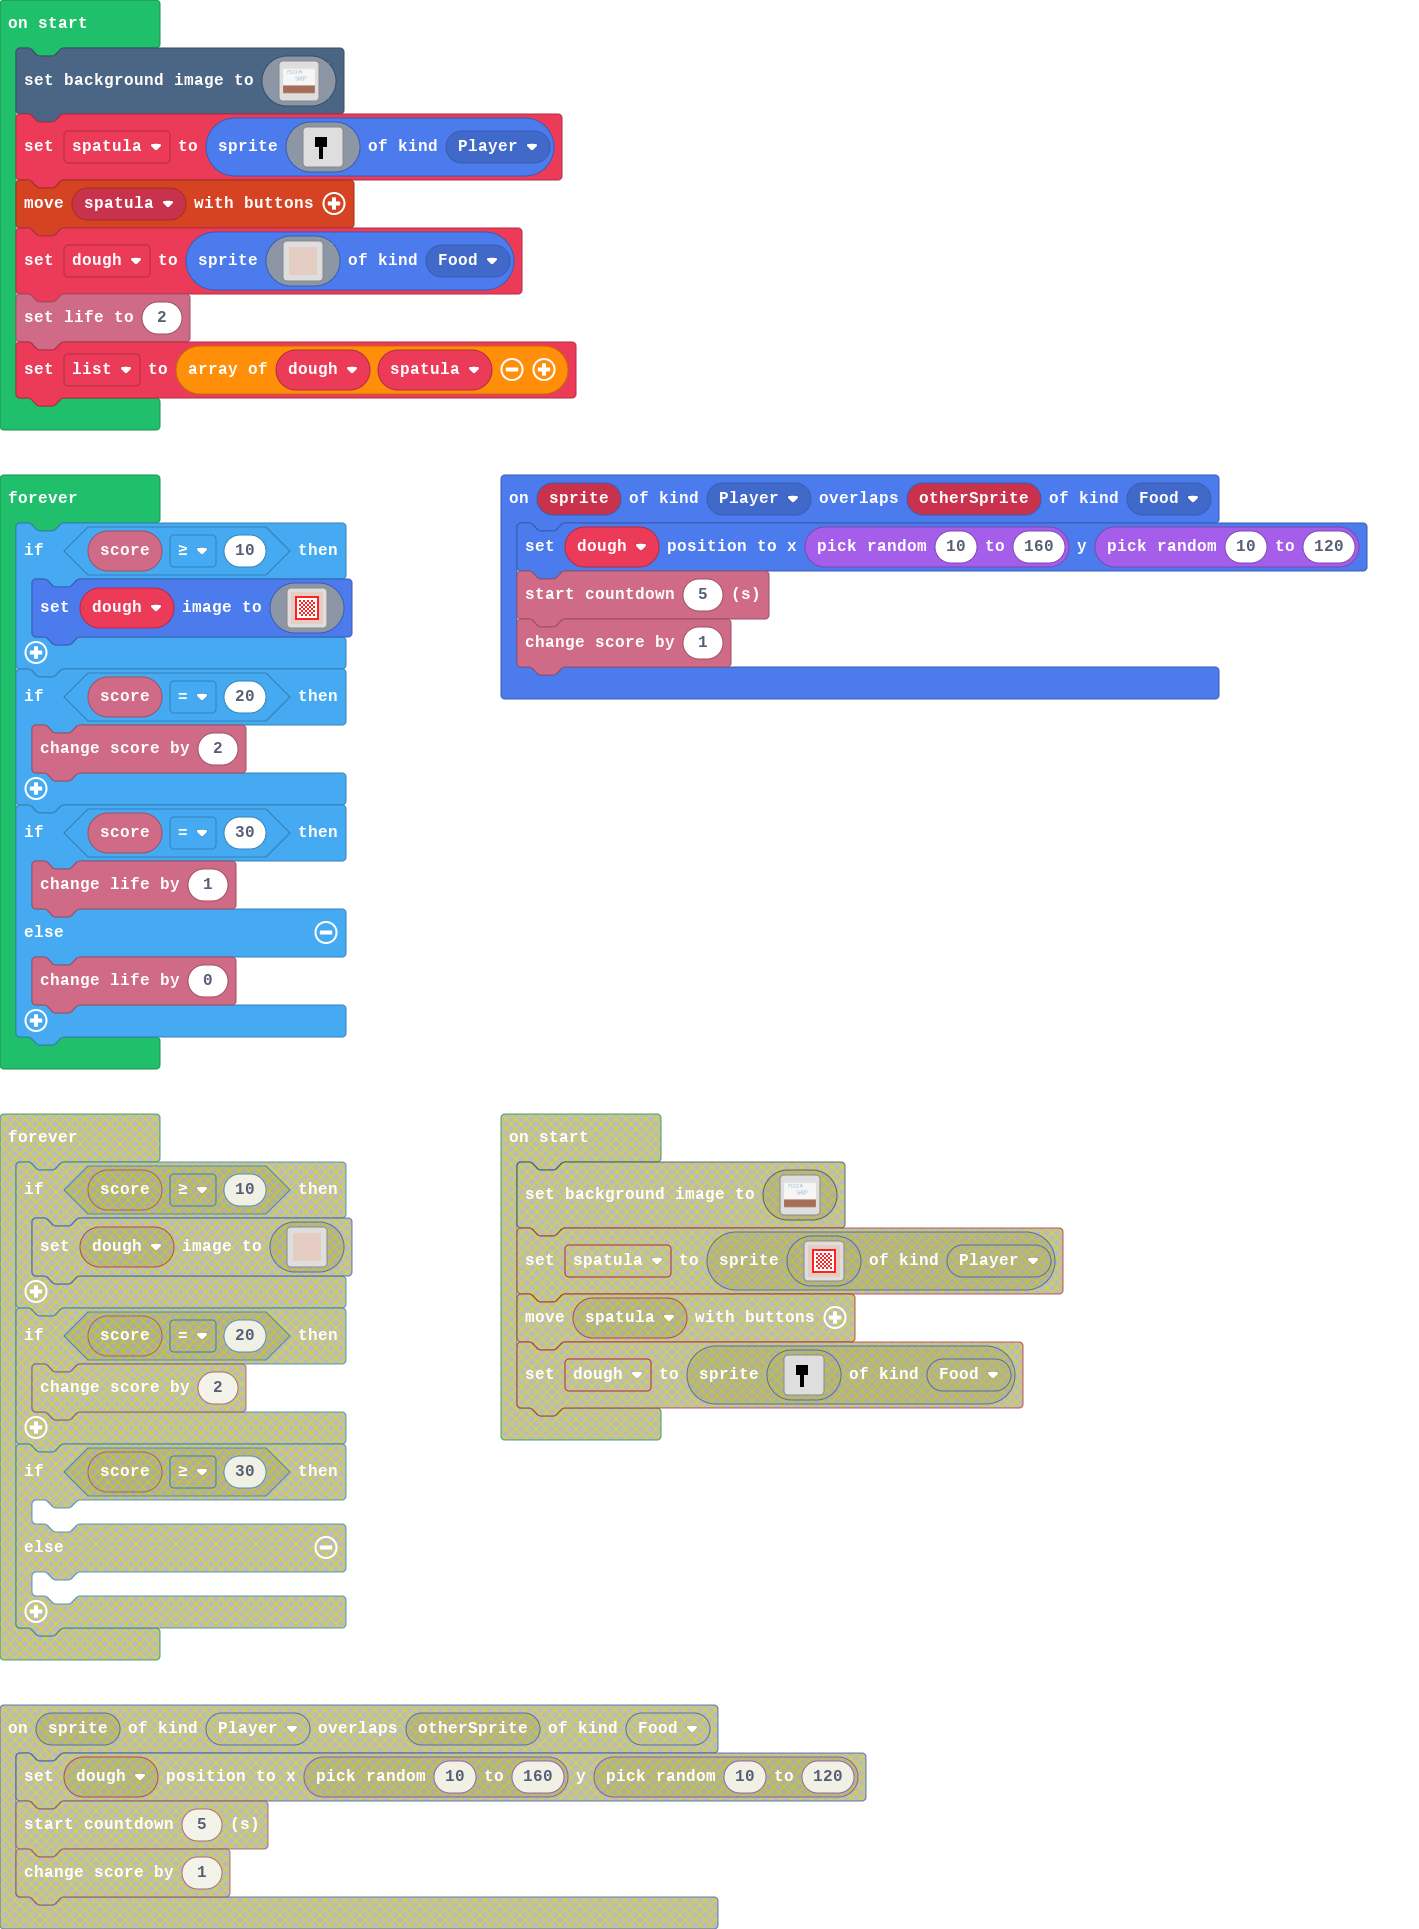
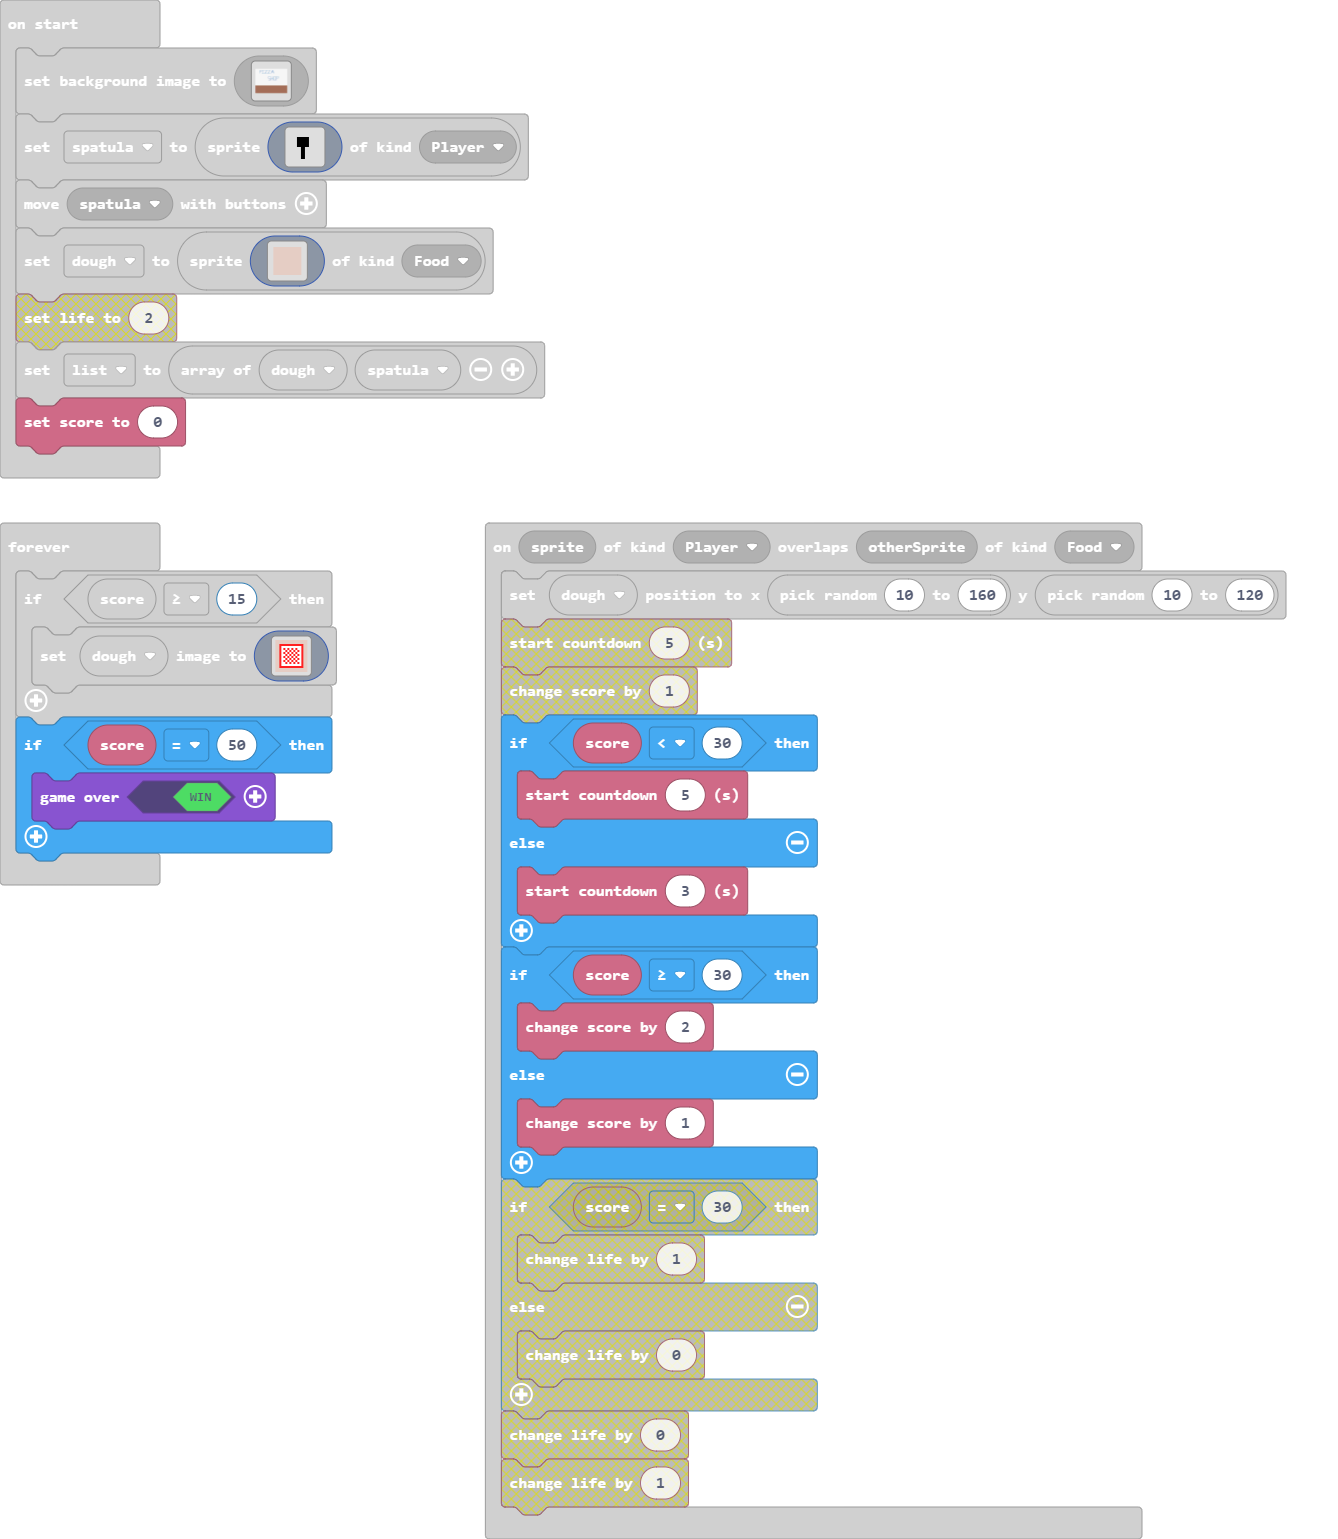
Update pxt.json, main.blocks, main.ts, main.py, images.g.jres, images.g.ts

diff --git a/images.g.ts b/images.g.ts
@@ -126,60 +126,6 @@ eeeeeeeeeeeeeeeeeeeeeeeeeeeeeeeeeeeeeeeeeeeeeeeeeeeeeeeeeeeeeeeeeeeeeeeeeeeeeeee
 eeeeeeeeeeeeeeeeeeeeeeeeeeeeeeeeeeeeeeeeeeeeeeeeeeeeeeeeeeeeeeeeeeeeeeeeeeeeeeeeeeeeeeeeeeeeeeeeeeeeeeeeeeeeeeeeeeeeeeeeeeeeeeeeeeeeeeeeeeeeeeeeeeeeeeeeeeeeeeee
 eeeeeeeeeeeeeeeeeeeeeeeeeeeeeeeeeeeeeeeeeeeeeeeeeeeeeeeeeeeeeeeeeeeeeeeeeeeeeeeeeeeeeeeeeeeeeeeeeeeeeeeeeeeeeeeeeeeeeeeeeeeeeeeeeeeeeeeeeeeeeeeeeeeeeeeeeeeeeeee
 `;
-            case "image5":return img`
-d d d d d d d d d d d d d d d d 
-d d d d d d d d d d d d d d d d 
-d d 2 2 2 2 2 2 2 2 2 2 2 2 d d 
-d d 2 1 1 1 1 1 1 1 1 1 1 2 d d 
-d d 2 1 2 1 2 1 2 1 2 1 1 2 d d 
-d d 2 1 1 2 1 2 1 2 1 2 1 2 d d 
-d d 2 1 2 1 2 1 2 1 2 1 1 2 d d 
-d d 2 1 1 2 1 2 1 2 1 2 1 2 d d 
-d d 2 1 2 1 2 1 2 1 2 1 1 2 d d 
-d d 2 1 1 2 1 2 1 2 1 2 1 2 d d 
-d d 2 1 2 1 2 1 2 1 2 1 1 2 d d 
-d d 2 1 1 2 1 2 1 2 1 2 1 2 d d 
-d d 2 1 1 1 1 1 1 1 1 1 1 2 d d 
-d d 2 2 2 2 2 2 2 2 2 2 2 2 d d 
-d d d d d d d d d d d d d d d d 
-d d d d d d d d d d d d d d d d 
-`;
-            case "image6":return img`
-. . . . . . . . . . . . . . . . 
-. . . . . . . . . . . . . . . . 
-. . . . . . . . . . . . . . . . 
-. . . . f f f f f f . . . . . . 
-. . . . f f f f f f . . . . . . 
-. . . . f f f f f f . . . . . . 
-. . . . f f f f f f . . . . . . 
-. . . . f f f f f f . . . . . . 
-. . . . . . f f . . . . . . . . 
-. . . . . . f f . . . . . . . . 
-. . . . . . f f . . . . . . . . 
-. . . . . . f f . . . . . . . . 
-. . . . . . f f . . . . . . . . 
-. . . . . . f f . . . . . . . . 
-. . . . . . . . . . . . . . . . 
-. . . . . . . . . . . . . . . . 
-`;
-            case "image7":return img`
-. . . . . . . . . . . . . . . . 
-. d d d d d d d d d d d d d d . 
-. d d d d d d d d d d d d d d . 
-. d d d d d d d d d d d d d d . 
-. d d d d d d d d d d d d d d . 
-. d d d d d d d d d d d d d d . 
-. d d d d d d d d d d d d d d . 
-. d d d d d d d d d d d d d d . 
-. d d d d d d d d d d d d d d . 
-. d d d d d d d d d d d d d d . 
-. d d d d d d d d d d d d d d . 
-. d d d d d d d d d d d d d d . 
-. d d d d d d d d d d d d d d . 
-. d d d d d d d d d d d d d d . 
-. d d d d d d d d d d d d d d . 
-. . . . . . . . . . . . . . . . 
-`;
             case "image2":return img`
 d d d d d d d d d d d d d d d d 
 d d d d d d d d d d d d d d d d 
@@ -271,6 +217,114 @@ d d d d d d d d d d d d d d d d
 . . . . . . . . . . . . . . . . 
 `;
             case "image10":return img`
+. . . . . . . . . . . . . . . . 
+. d d d d d d d d d d d d d d . 
+. d d d d d d d d d d d d d d . 
+. d d d d d d d d d d d d d d . 
+. d d d d d d d d d d d d d d . 
+. d d d d d d d d d d d d d d . 
+. d d d d d d d d d d d d d d . 
+. d d d d d d d d d d d d d d . 
+. d d d d d d d d d d d d d d . 
+. d d d d d d d d d d d d d d . 
+. d d d d d d d d d d d d d d . 
+. d d d d d d d d d d d d d d . 
+. d d d d d d d d d d d d d d . 
+. d d d d d d d d d d d d d d . 
+. d d d d d d d d d d d d d d . 
+. . . . . . . . . . . . . . . . 
+`;
+            case "image5":return img`
+d d d d d d d d d d d d d d d d 
+d d d d d d d d d d d d d d d d 
+d d 2 2 2 2 2 2 2 2 2 2 2 2 d d 
+d d 2 1 1 1 1 1 1 1 1 1 1 2 d d 
+d d 2 1 2 1 2 1 2 1 2 1 1 2 d d 
+d d 2 1 1 2 1 2 1 2 1 2 1 2 d d 
+d d 2 1 2 1 2 1 2 1 2 1 1 2 d d 
+d d 2 1 1 2 1 2 1 2 1 2 1 2 d d 
+d d 2 1 2 1 2 1 2 1 2 1 1 2 d d 
+d d 2 1 1 2 1 2 1 2 1 2 1 2 d d 
+d d 2 1 2 1 2 1 2 1 2 1 1 2 d d 
+d d 2 1 1 2 1 2 1 2 1 2 1 2 d d 
+d d 2 1 1 1 1 1 1 1 1 1 1 2 d d 
+d d 2 2 2 2 2 2 2 2 2 2 2 2 d d 
+d d d d d d d d d d d d d d d d 
+d d d d d d d d d d d d d d d d 
+`;
+            case "image6":return img`
+. . . . . . . . . . . . . . . . 
+. . . . . . . . . . . . . . . . 
+. . . . . . . . . . . . . . . . 
+. . . . f f f f f f . . . . . . 
+. . . . f f f f f f . . . . . . 
+. . . . f f f f f f . . . . . . 
+. . . . f f f f f f . . . . . . 
+. . . . f f f f f f . . . . . . 
+. . . . . . f f . . . . . . . . 
+. . . . . . f f . . . . . . . . 
+. . . . . . f f . . . . . . . . 
+. . . . . . f f . . . . . . . . 
+. . . . . . f f . . . . . . . . 
+. . . . . . f f . . . . . . . . 
+. . . . . . . . . . . . . . . . 
+. . . . . . . . . . . . . . . . 
+`;
+            case "image7":return img`
+. . . . . . . . . . . . . . . . 
+. d d d d d d d d d d d d d d . 
+. d d d d d d d d d d d d d d . 
+. d d d d d d d d d d d d d d . 
+. d d d d d d d d d d d d d d . 
+. d d d d d d d d d d d d d d . 
+. d d d d d d d d d d d d d d . 
+. d d d d d d d d d d d d d d . 
+. d d d d d d d d d d d d d d . 
+. d d d d d d d d d d d d d d . 
+. d d d d d d d d d d d d d d . 
+. d d d d d d d d d d d d d d . 
+. d d d d d d d d d d d d d d . 
+. d d d d d d d d d d d d d d . 
+. d d d d d d d d d d d d d d . 
+. . . . . . . . . . . . . . . . 
+`;
+            case "image11":return img`
+d d d d d d d d d d d d d d d d 
+d d d d d d d d d d d d d d d d 
+d d 2 2 2 2 2 2 2 2 2 2 2 2 d d 
+d d 2 1 1 1 1 1 1 1 1 1 1 2 d d 
+d d 2 1 2 1 2 1 2 1 2 1 1 2 d d 
+d d 2 1 1 2 1 2 1 2 1 2 1 2 d d 
+d d 2 1 2 1 2 1 2 1 2 1 1 2 d d 
+d d 2 1 1 2 1 2 1 2 1 2 1 2 d d 
+d d 2 1 2 1 2 1 2 1 2 1 1 2 d d 
+d d 2 1 1 2 1 2 1 2 1 2 1 2 d d 
+d d 2 1 2 1 2 1 2 1 2 1 1 2 d d 
+d d 2 1 1 2 1 2 1 2 1 2 1 2 d d 
+d d 2 1 1 1 1 1 1 1 1 1 1 2 d d 
+d d 2 2 2 2 2 2 2 2 2 2 2 2 d d 
+d d d d d d d d d d d d d d d d 
+d d d d d d d d d d d d d d d d 
+`;
+            case "image12":return img`
+. . . . . . . . . . . . . . . . 
+. . . . . . . . . . . . . . . . 
+. . . . . . . . . . . . . . . . 
+. . . . f f f f f f . . . . . . 
+. . . . f f f f f f . . . . . . 
+. . . . f f f f f f . . . . . . 
+. . . . f f f f f f . . . . . . 
+. . . . f f f f f f . . . . . . 
+. . . . . . f f . . . . . . . . 
+. . . . . . f f . . . . . . . . 
+. . . . . . f f . . . . . . . . 
+. . . . . . f f . . . . . . . . 
+. . . . . . f f . . . . . . . . 
+. . . . . . f f . . . . . . . . 
+. . . . . . . . . . . . . . . . 
+. . . . . . . . . . . . . . . . 
+`;
+            case "image13":return img`
 . . . . . . . . . . . . . . . . 
 . d d d d d d d d d d d d d d . 
 . d d d d d d d d d d d d d d . 

diff --git a/main.ts b/main.ts
@@ -1,76 +1,85 @@
-sprites.onOverlap(SpriteKind.Player, SpriteKind.Food, function (sprite, otherSprite) {
+sprites.onOverlap(SpriteKind.Player, SpriteKind.Food, function on_on_overlap(sprite: Sprite, otherSprite: Sprite) {
     dough.setPosition(randint(10, 160), randint(10, 120))
-    info.startCountdown(5)
-    info.changeScoreBy(1)
+    if (info.score() < 30) {
+        info.startCountdown(5)
+    } else {
+        info.startCountdown(3)
+    }
+    
+    if (info.score() >= 30) {
+        info.changeScoreBy(2)
+    } else {
+        info.changeScoreBy(1)
+    }
+    
 })
-let dough: Sprite = null
-scene.setBackgroundImage(assets.image`backround`)
+let dough : Sprite = null
+scene.setBackgroundImage(assets.image`
+    backround
+`)
 let spatula = sprites.create(img`
-    . . . . . . . . . . . . . . . . 
-    . . . . . . . . . . . . . . . . 
-    . . . . . . . . . . . . . . . . 
-    . . . . f f f f f f . . . . . . 
-    . . . . f f f f f f . . . . . . 
-    . . . . f f f f f f . . . . . . 
-    . . . . f f f f f f . . . . . . 
-    . . . . f f f f f f . . . . . . 
-    . . . . . . f f . . . . . . . . 
-    . . . . . . f f . . . . . . . . 
-    . . . . . . f f . . . . . . . . 
-    . . . . . . f f . . . . . . . . 
-    . . . . . . f f . . . . . . . . 
-    . . . . . . f f . . . . . . . . 
-    . . . . . . . . . . . . . . . . 
-    . . . . . . . . . . . . . . . . 
+        . . . . . . . . . . . . . . . . 
+            . . . . . . . . . . . . . . . . 
+            . . . . . . . . . . . . . . . . 
+            . . . . f f f f f f . . . . . . 
+            . . . . f f f f f f . . . . . . 
+            . . . . f f f f f f . . . . . . 
+            . . . . f f f f f f . . . . . . 
+            . . . . f f f f f f . . . . . . 
+            . . . . . . f f . . . . . . . . 
+            . . . . . . f f . . . . . . . . 
+            . . . . . . f f . . . . . . . . 
+            . . . . . . f f . . . . . . . . 
+            . . . . . . f f . . . . . . . . 
+            . . . . . . f f . . . . . . . . 
+            . . . . . . . . . . . . . . . . 
+            . . . . . . . . . . . . . . . .
     `, SpriteKind.Player)
 controller.moveSprite(spatula)
 dough = sprites.create(img`
-    . . . . . . . . . . . . . . . . 
-    . d d d d d d d d d d d d d d . 
-    . d d d d d d d d d d d d d d . 
-    . d d d d d d d d d d d d d d . 
-    . d d d d d d d d d d d d d d . 
-    . d d d d d d d d d d d d d d . 
-    . d d d d d d d d d d d d d d . 
-    . d d d d d d d d d d d d d d . 
-    . d d d d d d d d d d d d d d . 
-    . d d d d d d d d d d d d d d . 
-    . d d d d d d d d d d d d d d . 
-    . d d d d d d d d d d d d d d . 
-    . d d d d d d d d d d d d d d . 
-    . d d d d d d d d d d d d d d . 
-    . d d d d d d d d d d d d d d . 
-    . . . . . . . . . . . . . . . . 
+        . . . . . . . . . . . . . . . . 
+            . d d d d d d d d d d d d d d . 
+            . d d d d d d d d d d d d d d . 
+            . d d d d d d d d d d d d d d . 
+            . d d d d d d d d d d d d d d . 
+            . d d d d d d d d d d d d d d . 
+            . d d d d d d d d d d d d d d . 
+            . d d d d d d d d d d d d d d . 
+            . d d d d d d d d d d d d d d . 
+            . d d d d d d d d d d d d d d . 
+            . d d d d d d d d d d d d d d . 
+            . d d d d d d d d d d d d d d . 
+            . d d d d d d d d d d d d d d . 
+            . d d d d d d d d d d d d d d . 
+            . d d d d d d d d d d d d d d . 
+            . . . . . . . . . . . . . . . .
     `, SpriteKind.Food)
-info.setLife(2)
-let list = [dough, spatula]
-forever(function () {
-    if (info.score() >= 10) {
+let list2 = [dough, spatula]
+info.setScore(0)
+forever(function on_forever() {
+    if (info.score() >= 15) {
         dough.setImage(img`
             d d d d d d d d d d d d d d d d 
-            d d d d d d d d d d d d d d d d 
-            d d 2 2 2 2 2 2 2 2 2 2 2 2 d d 
-            d d 2 1 1 1 1 1 1 1 1 1 1 2 d d 
-            d d 2 1 2 1 2 1 2 1 2 1 1 2 d d 
-            d d 2 1 1 2 1 2 1 2 1 2 1 2 d d 
-            d d 2 1 2 1 2 1 2 1 2 1 1 2 d d 
-            d d 2 1 1 2 1 2 1 2 1 2 1 2 d d 
-            d d 2 1 2 1 2 1 2 1 2 1 1 2 d d 
-            d d 2 1 1 2 1 2 1 2 1 2 1 2 d d 
-            d d 2 1 2 1 2 1 2 1 2 1 1 2 d d 
-            d d 2 1 1 2 1 2 1 2 1 2 1 2 d d 
-            d d 2 1 1 1 1 1 1 1 1 1 1 2 d d 
-            d d 2 2 2 2 2 2 2 2 2 2 2 2 d d 
-            d d d d d d d d d d d d d d d d 
-            d d d d d d d d d d d d d d d d 
-            `)
+                        d d d d d d d d d d d d d d d d 
+                        d d 2 2 2 2 2 2 2 2 2 2 2 2 d d 
+                        d d 2 1 1 1 1 1 1 1 1 1 1 2 d d 
+                        d d 2 1 2 1 2 1 2 1 2 1 1 2 d d 
+                        d d 2 1 1 2 1 2 1 2 1 2 1 2 d d 
+                        d d 2 1 2 1 2 1 2 1 2 1 1 2 d d 
+                        d d 2 1 1 2 1 2 1 2 1 2 1 2 d d 
+                        d d 2 1 2 1 2 1 2 1 2 1 1 2 d d 
+                        d d 2 1 1 2 1 2 1 2 1 2 1 2 d d 
+                        d d 2 1 2 1 2 1 2 1 2 1 1 2 d d 
+                        d d 2 1 1 2 1 2 1 2 1 2 1 2 d d 
+                        d d 2 1 1 1 1 1 1 1 1 1 1 2 d d 
+                        d d 2 2 2 2 2 2 2 2 2 2 2 2 d d 
+                        d d d d d d d d d d d d d d d d 
+                        d d d d d d d d d d d d d d d d
+        `)
     }
-    if (info.score() == 20) {
-        info.changeScoreBy(2)
+    
+    if (info.score() == 50) {
+        game.over(true)
     }
-    if (info.score() == 30) {
-        info.changeLifeBy(1)
-    } else {
-        info.changeLifeBy(0)
-    }
+    
 })

diff --git a/main.py b/main.py
@@ -1,7 +1,13 @@
 def on_on_overlap(sprite, otherSprite):
     dough.set_position(randint(10, 160), randint(10, 120))
-    info.start_countdown(5)
-    info.change_score_by(1)
+    if info.score() < 30:
+        info.start_countdown(5)
+    else:
+        info.start_countdown(3)
+    if info.score() >= 30:
+        info.change_score_by(2)
+    else:
+        info.change_score_by(1)
 sprites.on_overlap(SpriteKind.player, SpriteKind.food, on_on_overlap)
 
 dough: Sprite = None
@@ -47,11 +53,11 @@ dough = sprites.create(img("""
             . . . . . . . . . . . . . . . .
     """),
     SpriteKind.food)
-info.set_life(2)
-list = [dough, spatula]
+list2 = [dough, spatula]
+info.set_score(0)
 
 def on_forever():
-    if info.score() >= 10:
+    if info.score() >= 15:
         dough.set_image(img("""
             d d d d d d d d d d d d d d d d 
                         d d d d d d d d d d d d d d d d 
@@ -70,10 +76,6 @@ def on_forever():
                         d d d d d d d d d d d d d d d d 
                         d d d d d d d d d d d d d d d d
         """))
-    if info.score() == 20:
-        info.change_score_by(2)
-    if info.score() == 30:
-        info.change_life_by(1)
-    else:
-        info.change_life_by(0)
+    if info.score() == 50:
+        game.over(True)
 forever(on_forever)
